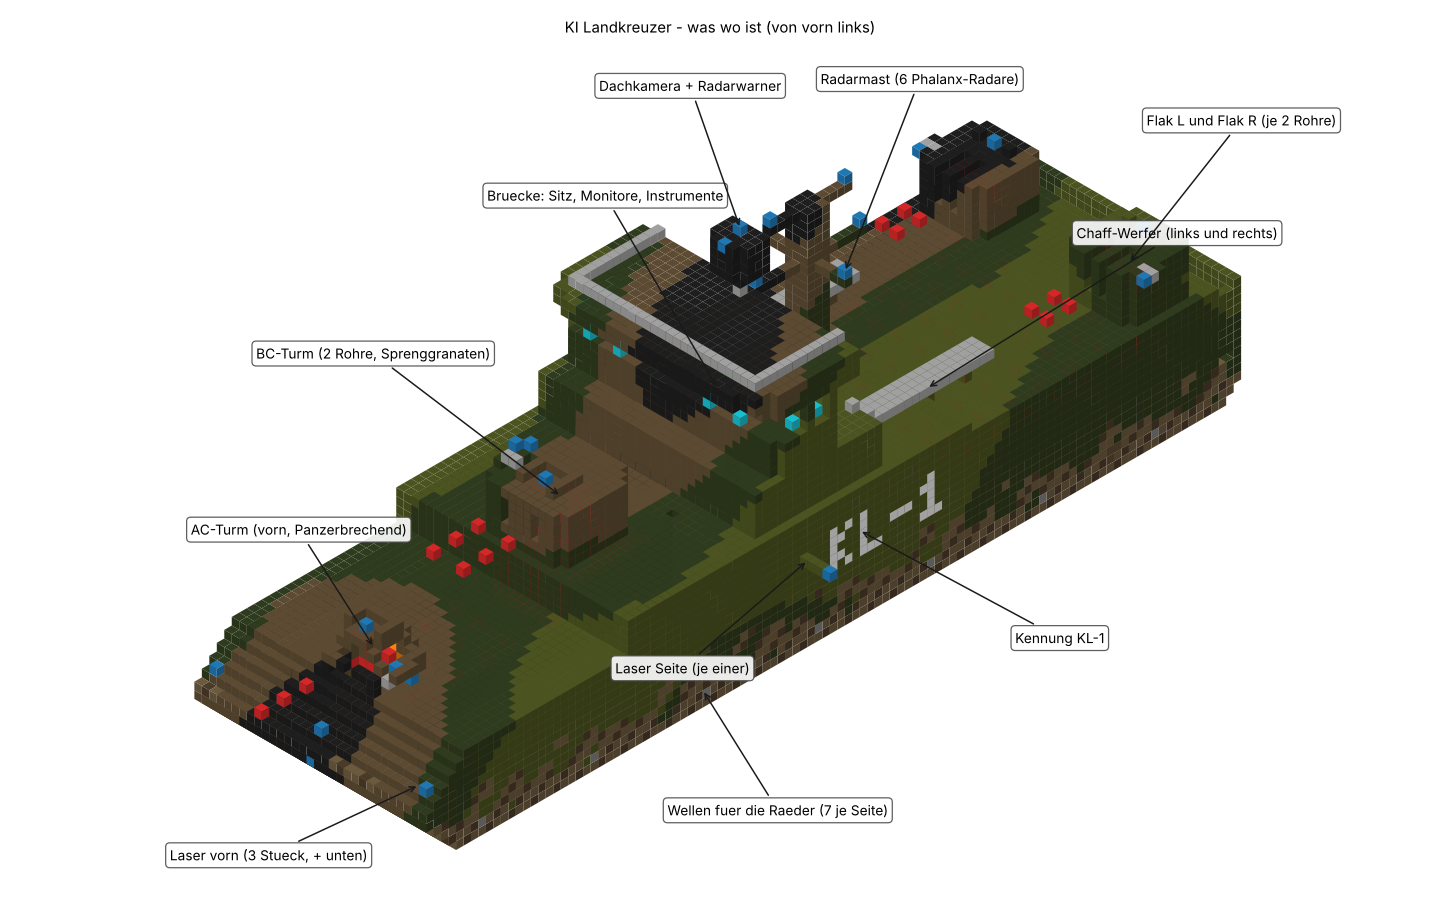
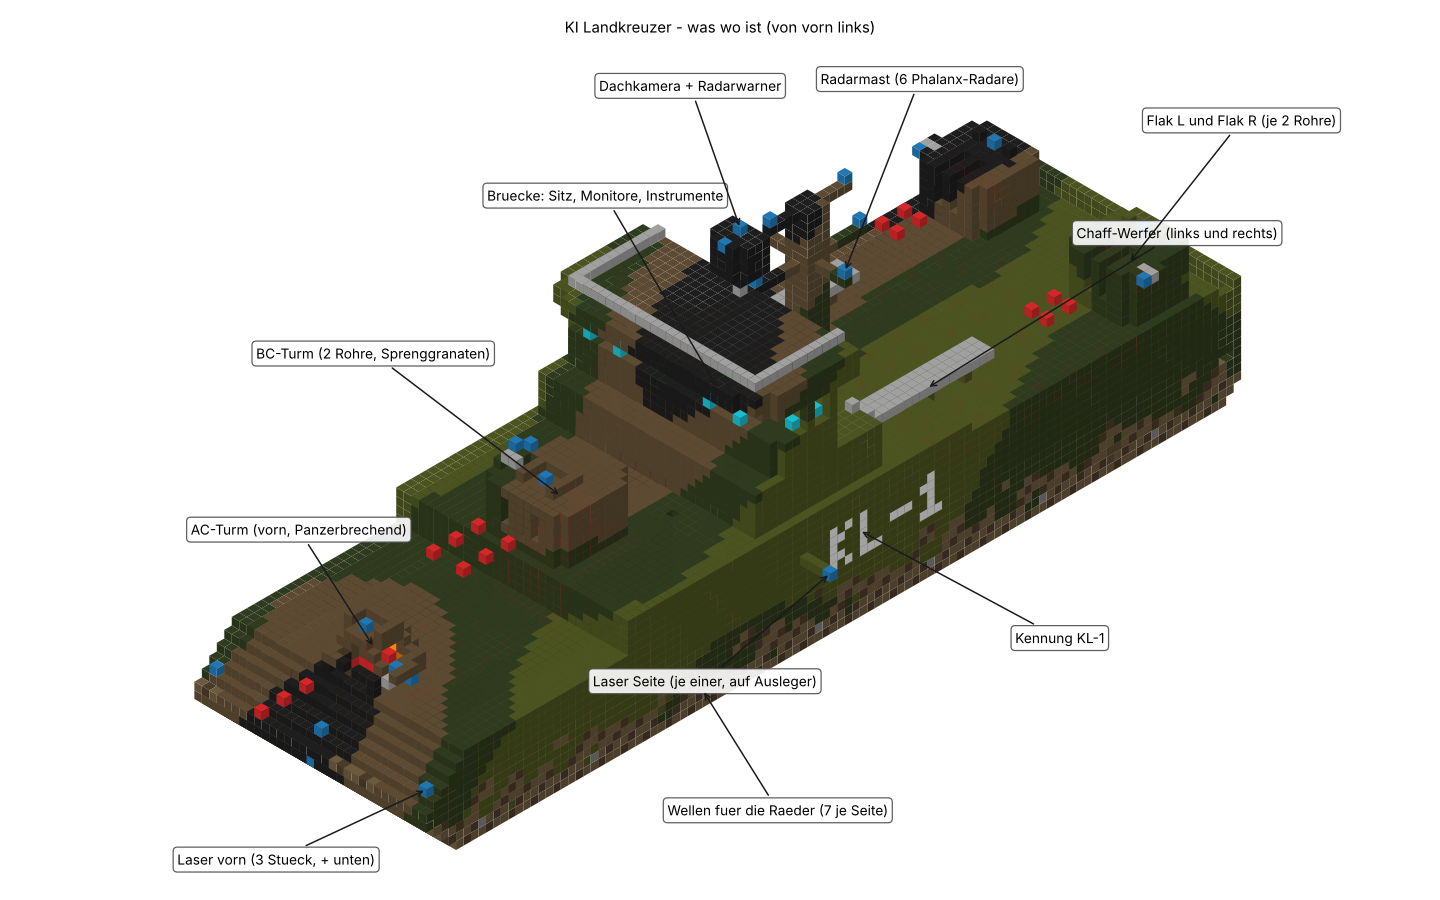
Bild: Beschriftung der verschobenen Laser
Claude-Session: https://claude.ai/code/session_0152gkBg9gGuHk7BmVYYkeuS

Changed region(s): [[0.0938, 0.9022, 0.2812, 0.9956], [0.4062, 0.7156, 0.5625, 0.7778], [0.25, 0.8711, 0.2812, 0.9022]]

diff --git a/landkreuzer/tools/ansicht.py b/landkreuzer/tools/ansicht.py
@@ -134,8 +134,8 @@ BESCHRIFTUNG = [
     ("Dachkamera + Radarwarner", (0, 33, -15), (-40, 110)),
     ("Chaff-Werfer (links und rechts)", (-10, 12, -30), (200, 120)),
     ("Flak L und Flak R (je 2 Rohre)", (-10, 13, -57), (90, 110)),
-    ("Laser vorn (3 Stueck, + unten)", (-13, 3, 41), (-120, -60)),
-    ("Laser Seite (je einer)", (-16, 6, -8), (-100, -90)),
+    ("Laser vorn (3 Stueck, + unten)", (-14, 3, 41), (-120, -60)),
+    ("Laser Seite (je einer, auf Ausleger)", (-19, 6, -8), (-100, -90)),
     ("Wellen fuer die Raeder (7 je Seite)", (-15, -3, 5), (60, -100)),
     ("Kennung KL-1", (-15, 5, -16), (160, -90)),
 ]
